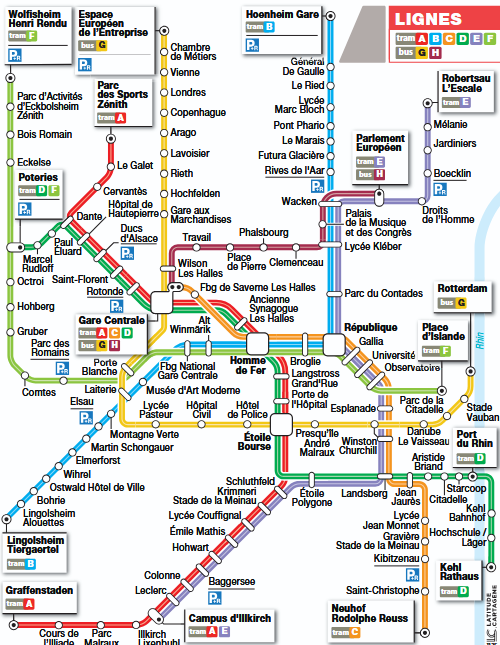
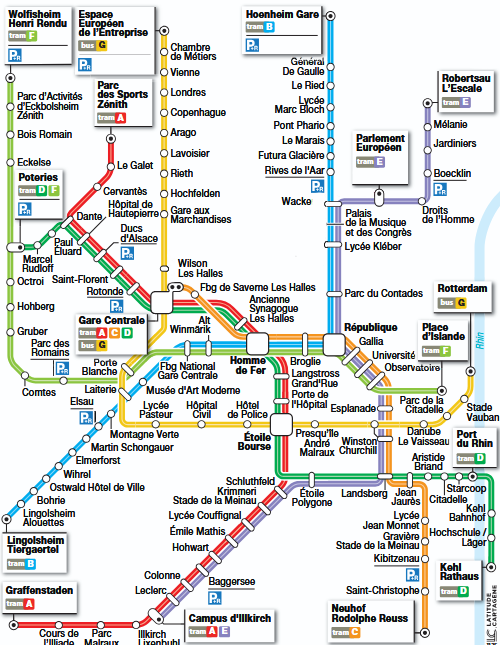
feat: add color

Changed region(s): [[0.66, 0.0, 1.0, 0.124], [0.33, 0.2481, 0.78, 0.4341], [0.21, 0.5271, 0.24, 0.5581]]

diff --git a/src/data.tsx b/src/data.tsx
@@ -12,49 +12,98 @@ const stops = [
     { name: "Cours de l'Illiade", lines: ["A"], position: [5, 97, 10.8, 2.5] },
     { name: "Parc Malraux", lines: ["A"], position: [16.1, 97, 10.8, 2.5] },
     { name: "Illkirch Lixenbuhl", lines: ["A"], position: [27.2, 97, 10.8, 2.5] },
-    { name: "Campus d'Illkirch", lines: ["A"], position: [37.2, 94.1, 17.4, 2.2] },
-    { name: "Leclerc", lines: ["A"], position: [16.4, 90, 17, 2] },
-    { name: "Colonne", lines: ["A"], position: [19.4, 87.3, 17, 2] },
-    { name: "Baggersee", lines: ["A"], position: [41.4, 88.9, 17, 2] },
-    { name: "Hohwart", lines: ["A"], position: [24.7, 83.3, 17, 2] },
-    { name: "Émile Mathis", lines: ["A"], position: [28, 80.8, 17, 2] },
-    { name: "Lycée Couffignal", lines: ["A"], position: [31.2, 78.4, 17, 2] },
-    { name: "Krimmeri Stade de la Meinau", lines: ["A"], position: [34.4, 75, 17, 3] },
-    { name: "Schluthfeld", lines: ["A"], position: [37.8, 72.7, 17, 2] },
     { name: "Cervantès", lines: ["A"], position: [20.2, 28.4, 11, 2] },
     { name: "Le Galet", lines: ["A"], position: [23.2, 24.4, 8, 2] },
     { name: "Parc des Sports Zénith", lines: ["A"], position: [19, 12.3, 11, 4.4] },
 
     { name: "Hoenheim Gare", lines: ["B"], position: [48.5, 1, 15.3, 4.2] },
-    { name: "Général de Gaulle", lines: ["B"], position: [49.5, 8.7, 15.3, 3] },
+    { name: "Général de Gaulle", lines: ["B"], position: [49.5, 8.6, 15.3, 3] },
     { name: "Le Ried", lines: ["B"], position: [49.5, 11.9, 15.3, 2.5] },
     { name: "Lycée Marc Bloch", lines: ["B"], position: [49.5, 14.7, 15.3, 3] },
     { name: "Pont Phario", lines: ["B"], position: [49.5, 18, 15.3, 2.4] },
     { name: "Le Marais", lines: ["B"], position: [49.5, 20.7, 15.3, 2.1] },
-    { name: "Futura Glacière", lines: ["B"], position: [49.5, 20.7, 15.3, 2.1] },
-    { name: "Lingolsheim Tiergartel", lines: ["B"], position: [1, 82.3, 11.8, 3.3] },
-    { name: "Lingolsheim Alouettes", lines: ["B"], position: [4.4, 78.2, 20, 3] },
-    { name: "Bohrie", lines: ["B"], position: [7.4, 76.1, 20, 1.8] },
-    { name: "Ostwald Hôtel de Ville", lines: ["B"], position: [9.8, 74.1, 20, 1.8] },
-    { name: "Wihrel", lines: ["B"], position: [12.6, 72, 20, 1.8] },
-    { name: "Elmerforst", lines: ["B"], position: [15.2, 70, 20, 1.8] },
-    { name: "Martin Schongauer", lines: ["B"], position: [17.6, 68, 20, 1.8] },
+    { name: "Futura Glacière", lines: ["B"], position: [49.5, 23, 15.3, 2.1] },
+    { name: "Rives de l'Aar", lines: ["B"], position: [49.5, 25.3, 15.3, 2.1] },
+    { name: "Elsau", lines: ["B"], position: [49.5, 25.3, 15.3, 2.1] },
     { name: "Montagne Verte", lines: ["B"], position: [20.3, 66, 20, 1.8] },
+    { name: "Elsau", lines: ["B"], position: [11.5, 61.2, 10, 1.8] },
+    { name: "Martin Schongauer", lines: ["B"], position: [17.6, 68, 20, 1.8] },
+    { name: "Elmerforst", lines: ["B"], position: [15.2, 70, 20, 1.8] },
+    { name: "Wihrel", lines: ["B"], position: [12.6, 72, 20, 1.8] },
+    { name: "Ostwald Hôtel de Ville", lines: ["B"], position: [9.8, 74.1, 20, 1.8] },
+    { name: "Bohrie", lines: ["B"], position: [7.4, 76.1, 20, 1.8] },
+    { name: "Lingolsheim Alouettes", lines: ["B"], position: [4.4, 78.2, 20, 3] },
+    { name: "Lingolsheim Tiergartel", lines: ["B"], position: [1, 82.3, 11.8, 3.3] },
 
     { name: "Lycée Jean Monnet", lines: ["C"], position: [0, 0, 14, 2] },
+    { name: "Fbg de Saverne Les Halles", lines: ["C"], position: [40, 42.9, 24, 2.4] },
 
     { name: "Kehl Bahnhof", lines: ["D"], position: [0, 0, 14, 2] },
+    { name: "Marcel Rudloff", lines: ["D"], position: [3, 39.4, 9, 2.6] },
+    { name: "Paul Éluard", lines: ["D"], position: [9, 36.6, 7.5, 2.6] },
 
-    { name: "Mélanie", lines: ["E"], position: [0, 0, 14, 2] },
+    { name: "Robertsau l'Escale", lines: ["E"], position: [88, 11, 10.4, 3.5] },
+    { name: "Mélanie", lines: ["E"], position: [86.5, 18.4, 13, 2.1] },
+    { name: "Jardiniers", lines: ["E"], position: [86.5, 21.4, 13, 2.1] },
+    { name: "Boecklin", lines: ["E"], position: [86.5, 25.4, 13, 2.1] },
+    { name: "Droits de l'Homme", lines: ["E"], position: [84, 31.7, 15.5, 3.5] },
+    { name: "Parlement Européen", lines: ["E"], position: [70.6, 20.3, 10.6, 3.5] },
 
     { name: "Place d'Islande", lines: ["F"], position: [0, 0, 14, 2] },
-    { name: "Comtes", lines: ["F"], position: [0, 0, 14, 2] },
+    { name: "Parc des Romains", lines: ["F"], position: [3, 52.2, 10.8, 3.3] },
+    { name: "Comtes", lines: ["F"], position: [0.5, 59.5, 10.5, 2.3] },
+    { name: "Gruber", lines: ["F"], position: [3, 49.4, 10.5, 2.3] },
+    { name: "Hohberg", lines: ["F"], position: [3, 46.1, 10.5, 2.3] },
+    { name: "Octroi", lines: ["F"], position: [3, 42.3, 6.5, 2.3] },
+    { name: "Eckelse", lines: ["F"], position: [3, 23.5, 13.6, 2.3] },
+    { name: "Bois Romain", lines: ["F"], position: [3, 19.5, 13.6, 2.3] },
+    { name: "Parc d'Activités d'Eckbolsheim Zénith", lines: ["F"], position: [3, 14, 13.6, 4.8] },
     { name: "Wolfisheim Henri Rendu", lines: ["F"], position: [1.4, 1.2, 12.4, 3.2] },
 
     { name: "Espace Européen de l'Entreprise", lines: ["G"], position: [15.2, 1.2, 15.3, 4.6] },
-    { name: "Rotterdam", lines: ["G"], position: [0, 0, 14, 2] },
+    { name: "Chambre de Métiers", lines: ["G"], position: [33.9, 6.5, 14, 3] },
+    { name: "Vienne", lines: ["G"], position: [33.9, 10, 14, 2.3] },
+    { name: "Londres", lines: ["G"], position: [33.9, 13, 14, 2.3] },
+    { name: "Copenhague", lines: ["G"], position: [33.9, 16, 14, 2.3] },
+    { name: "Arago", lines: ["G"], position: [33.9, 19.3, 14, 2.3] },
+    { name: "Lavoisier", lines: ["G"], position: [33.9, 22.4, 14, 2.3] },
+    { name: "Rieth", lines: ["G"], position: [33.9, 25.5, 14, 2.3] },
+    { name: "Hochfelden", lines: ["G"], position: [33.9, 28.7, 14, 2.3] },
+    { name: "Gare aux Marchandises", lines: ["G"], position: [33.9, 31.7, 14, 2.8] },
+    { name: "Wilson Les Halles", lines: ["G"], position: [33.9, 39.5, 14, 3] },
+    { name: "Lycée Pasteur", lines: ["G"], position: [26, 61.8, 8.8, 2.8] },
+    { name: "Hôpital Civil", lines: ["G"], position: [35.2, 61.8, 9, 2.8] },
+    { name: "Hôtel de Police", lines: ["G"], position: [44.4, 61.8, 9, 2.8] },
+    { name: "Presqu'île André Malraux", lines: ["G"], position: [58.8, 66.1, 8.8, 4.4] },
+    { name: "Danube Le Vaisseau", lines: ["G"], position: [79, 66, 10.8, 3.4] },
+    { name: "Parc de la Citadelle", lines: ["G"], position: [79, 61, 10, 2.6] },
+    { name: "Stade Vauban", lines: ["G"], position: [91.8, 62, 8, 3.6] },
+    { name: "Rotterdam", lines: ["G"], position: [87, 43.6, 10.9, 2] },
 
     { name: "Esplanade", lines: ["C", "E"], position: [0, 0, 14, 2] },
+    { name: "Wacken", lines: ["E", "B"], position: [49.5, 30.3, 14.8, 2.1] },
+    { name: "Palais de la Musique et des Congrès", lines: ["E", "B"], position: [68.9, 31.8, 14, 5] },
+    { name: "Lycée Kléber", lines: ["E", "B"], position: [68.9, 37, 14, 2.3] },
+    { name: "Parc du Contades", lines: ["E", "B"], position: [68.9, 44, 16, 2.3] },
+    { name: "Poteries", lines: ["D", "F"], position: [3.2, 26.2, 9, 2.1] },
+    { name: "Porte Blanche", lines: ["F", "G"], position: [14.5, 54.8, 9, 3.2] },
+    { name: "Laiterie", lines: ["B", "G"], position: [14.5, 58.8, 9, 2.1] },
+    { name: "Gare Centrale", lines: ["A", "C", "D", "G"], position: [15, 48.4, 14, 2] },
+    { name: "Rotonde", lines: ["A", "D"], position: [14, 44.2, 11, 2] },
+    { name: "Saint-Florent", lines: ["A", "D"], position: [10, 42, 12, 2] },
+    { name: "Dante", lines: ["D", "A"], position: [11, 31.3, 9, 2.6] },
+    { name: "Hôpital de Hautepierre", lines: ["D", "A"], position: [20.4, 30.8, 11.2, 2.8] },
+    { name: "Ducs d'Alsace", lines: ["D", "A"], position: [20.4, 34.2, 11.2, 3.4] },
+    { name: "Campus d'Illkirch", lines: ["A", "E"], position: [37.2, 94.1, 17.4, 2.2] },
+    { name: "Leclerc", lines: ["A", "E"], position: [16.4, 90, 17, 2] },
+    { name: "Colonne", lines: ["A", "E"], position: [19.4, 87.3, 17, 2] },
+    { name: "Baggersee", lines: ["A", "E"], position: [41.4, 88.9, 17, 2] },
+    { name: "Hohwart", lines: ["A", "E"], position: [24.7, 83.3, 17, 2] },
+    { name: "Émile Mathis", lines: ["A", "E"], position: [28, 80.8, 17, 2] },
+    { name: "Lycée Couffignal", lines: ["A", "E"], position: [31.2, 78.4, 17, 2] },
+    { name: "Krimmeri Stade de la Meinau", lines: ["A", "E"], position: [34.4, 75, 17, 3] },
+    { name: "Schluthfeld", lines: ["A", "E"], position: [37.8, 72.7, 17, 2] },
+    { name: "Ancienne Synagogue Les Halles", lines: ["A", "D"], position: [49.8, 45.6, 14.2, 4] },
 ];
 
 export { lines, stops };

diff --git a/src/Map.tsx b/src/Map.tsx
@@ -2,6 +2,7 @@ import { useRef, useEffect } from "react";
 import map from './assets/map.png';
 import { stops } from "./data";
 import { DropZone } from "./DropZone";
+import { lines } from "./data";
 
 const Map = ({ onResize, assignments, setAssignments, toggleSolution, checkResult }: any) => {
     const handleDrop = (zoneId: any, label: any) => {
@@ -34,7 +35,7 @@ const Map = ({ onResize, assignments, setAssignments, toggleSolution, checkResul
                 height: 'auto',
             }} />
             {stops.map((stop) => (
-                <DropZone id={stop.name} key={stop.name} solution={stop.name} position={stop.position} assignedLabel={assignments[stop.name]} onDrop={handleDrop} toggleSolution={toggleSolution} checkResult={checkResult} removeLabel={() => {
+                <DropZone id={stop.name} key={stop.name} solution={stop.name} position={stop.position} color={stop.lines.length == 1 ? lines.find((line: any) => line.name == stop.lines[0])?.color : "#ccc"} assignedLabel={assignments[stop.name]} onDrop={handleDrop} toggleSolution={toggleSolution} checkResult={checkResult} removeLabel={() => {
                     setAssignments((prev: any) => {
                         const newAssignments = { ...prev };
                         delete newAssignments[stop.name];

diff --git a/src/DropZone.tsx b/src/DropZone.tsx
@@ -1,6 +1,6 @@
 import { useDrop } from "react-dnd";
 
-export const DropZone = ({ id, solution, position, assignedLabel, onDrop, removeLabel, toggleSolution, checkResult }: any) => {
+export const DropZone = ({ id, solution, position, color, assignedLabel, onDrop, removeLabel, toggleSolution, checkResult }: any) => {
     const [{ isOver, canDrop }, drop] = useDrop(() => ({
         accept: "LABEL",
         drop: (item: any) => onDrop(id, item.label),
@@ -29,7 +29,7 @@ export const DropZone = ({ id, solution, position, assignedLabel, onDrop, remove
                 width: `${position[2]}%`,
                 height: `${position[3]}%`,
                 borderRadius: "4px",
-                border: "1px solid #ccc",
+                border: `2px solid ${color || "#ccc"}`,
                 backgroundColor: highlight,
                 color: "black",
                 fontSize: "0.9em",
